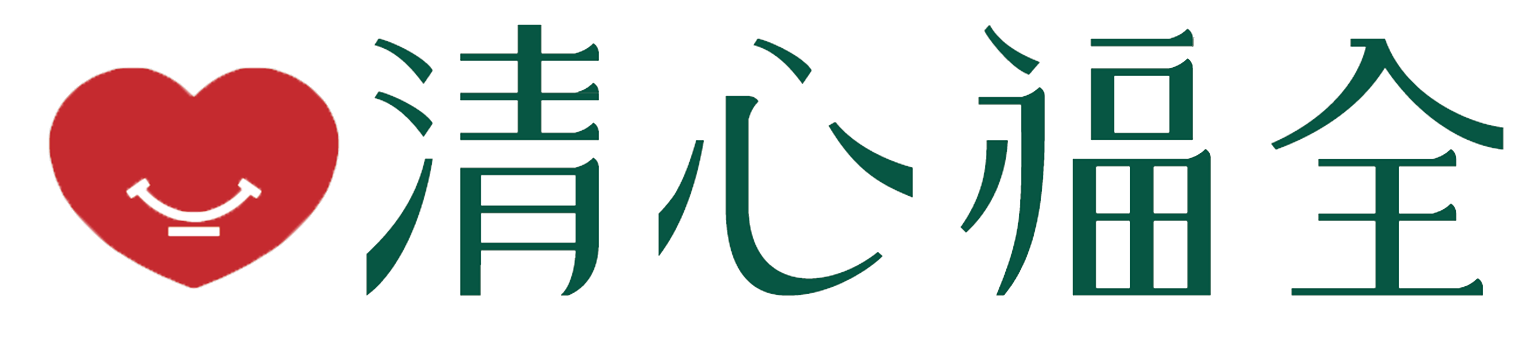
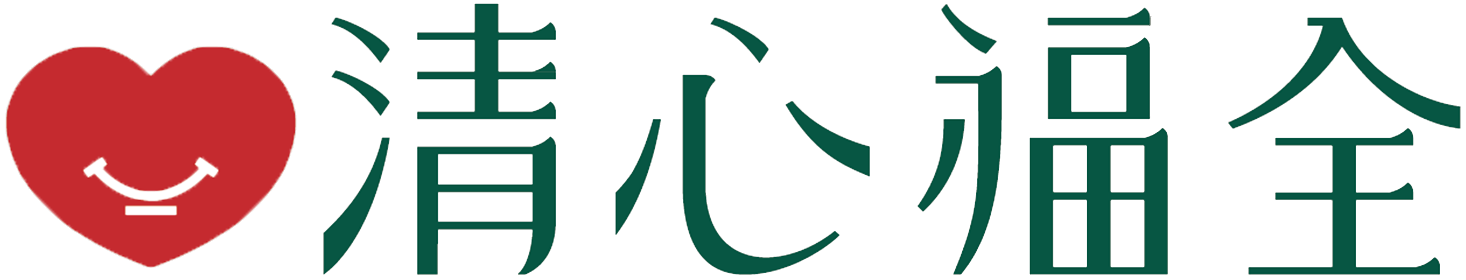
畫面細部微調

diff --git a/App.js b/App.js
@@ -76,7 +76,7 @@ class LogoTitle extends React.Component {
     return (
       <Image
         source={require('./assets/title_background.png')}
-        style={{ width: 100, height: 30 , flex: 1,
+        style={{ width: 100, height: 22 , flex: 1,
           alignItems: 'center',
           justifyContent: 'center',
           resizeMode: Image.resizeMode.center}}
@@ -86,11 +86,10 @@ class LogoTitle extends React.Component {
 }
 class LoginScreen extends React.Component {
   // 登入畫面
-  
   static navigationOptions = {
     // headerTitle instead of title
     headerTitle: <LogoTitle/>,
-    headerStyle: {height: 30 ,backgroundColor:'#DCDDDD',}, //頂端列高度
+    headerStyle: {height: 42 ,backgroundColor:'#DCDDDD',}, //頂端列高度
     headerRight: <View></View>,
     // headerLeft:  <Icon name={'chevron-left'} onPress={() => console.log('返回')} />,
   };
@@ -129,7 +128,7 @@ class LoginScreen extends React.Component {
           style={login.btn}
           onPress={() => console.log('press me')}
           >
-          <Text style={login.btntext}>登入</Text>
+          <Text style={login.btntext}>確認送出</Text>
         </TouchableOpacity>
       </View>
     </ScrollView>
@@ -163,7 +162,7 @@ class LoginScreen extends React.Component {
       },
       input: {
         //marginTop: 10,
-        height: 40,
+        height: 44,
         alignSelf: 'stretch',
         borderRadius: 5,
         borderWidth: 1,
@@ -174,7 +173,7 @@ class LoginScreen extends React.Component {
         alignItems: 'center',
         justifyContent: 'center',
         //fontWeight: 'bold',
-        fontSize: 15,
+        fontSize: 16,
         //height: 20,
       },
       btntext: {
@@ -187,7 +186,7 @@ class LoginScreen extends React.Component {
         alignItems: 'center',
         justifyContent: 'center',
         backgroundColor: 'white',
-        height: 40,
+        height: 44,
         borderRadius: 5,
         marginBottom: 20,
         //marginBotton: 20,
@@ -208,7 +207,7 @@ class RegisterScreen extends React.Component {
   static navigationOptions = {
     // headerTitle instead of title
     headerTitle: <LogoTitle/>,
-    headerStyle: {height: 30 ,backgroundColor:'#DCDDDD',}, //頂端列高度
+    headerStyle: {height: 42 ,backgroundColor:'#DCDDDD',}, //頂端列高度
     headerRight: <View></View>,
     // headerLeft:  <Icon name={'chevron-left'} onPress={() => console.log('返回')} />,
   };
@@ -230,7 +229,7 @@ class ScannerScreen extends React.Component {
   static navigationOptions = {
     // headerTitle instead of title
     headerTitle: <LogoTitle/>,
-    headerStyle: {height: 30 ,backgroundColor:'#DCDDDD'} //頂端列高度
+    headerStyle: {height: 42 ,backgroundColor:'#DCDDDD'} //頂端列高度
   };
   constructor(props){
     super(props);
@@ -303,7 +302,7 @@ class HomeScreen extends React.Component {
   static navigationOptions = {
     // headerTitle instead of title
     headerTitle: <LogoTitle/>,
-    headerStyle: {height: 30 ,backgroundColor:'#DCDDDD'} //頂端列高度
+    headerStyle: {height: 42 ,backgroundColor:'#DCDDDD'} //頂端列高度
   };
   state = {
     mapRegion: { 
